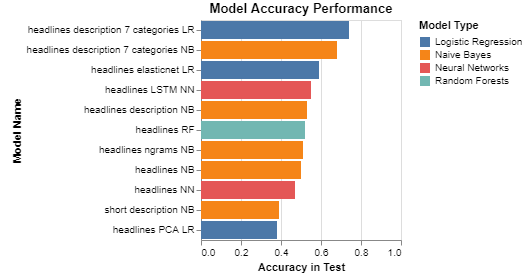
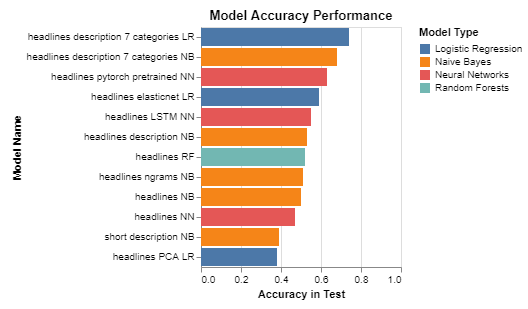
Changing results table and image in README with new model added

Changed region(s): [[0.0303, 0.0, 0.7576, 0.9819], [0.7879, 0.0578, 1.0, 0.3177], [0.0, 0.3466, 0.0606, 0.6065]]

diff --git a/README.md b/README.md
@@ -34,19 +34,20 @@ Here are some results for the models tested:
 ![Accuracy of the Models](./imgs/results.PNG)
 
 
-|    | model_name                            |   train_accuracy |   test_accuracy |
-|---:|:--------------------------------------|-----------------:|----------------:|
-|  0 | headlines_description_7_categories_LR |             0.69 |            0.74 |
-|  1 | headlines_description_7_categories_NB |             0.65 |            0.68 |
-|  3 | headlines_elasticnet_LR               |             0.59 |            0.59 |
-|  4 | headlines_LSTM_NN                     |             0.65 |            0.55 |
-|  2 | headlines_description_NB              |             0.51 |            0.53 |
-|  9 | headlines_RF                          |             0.51 |            0.52 |
-|  6 | headlines_ngrams_NB                   |             0.48 |            0.51 |
-|  5 | headlines_NB                          |             0.48 |            0.5  |
-|  7 | headlines_NN                          |             0.46 |            0.47 |
-| 10 | short_description_NB                  |             0.37 |            0.39 |
-|  8 | headlines_PCA_LR                      |             0.37 |            0.38 |
+| model_name                            |   train_accuracy |   test_accuracy |
+|:--------------------------------------|-----------------:|----------------:|
+| headlines_description_7_categories_LR |             0.69 |            0.74 |
+| headlines_description_7_categories_NB |             0.65 |            0.68 |
+| headlines_pytorch_pretrained_NN       |             0.62 |            0.63 |
+| headlines_elasticnet_LR               |             0.59 |            0.59 |
+| headlines_LSTM_NN                     |             0.65 |            0.55 |
+| headlines_description_NB              |             0.51 |            0.53 |
+| headlines_RF                          |             0.51 |            0.52 |
+| headlines_ngrams_NB                   |             0.48 |            0.51 |
+| headlines_NB                          |             0.48 |            0.5  |
+| headlines_NN                          |             0.46 |            0.47 |
+| short_description_NB                  |             0.37 |            0.39 |
+| headlines_PCA_LR                      |             0.37 |            0.38 |
 
 ### Unsupervised Machine Learning Model
 
